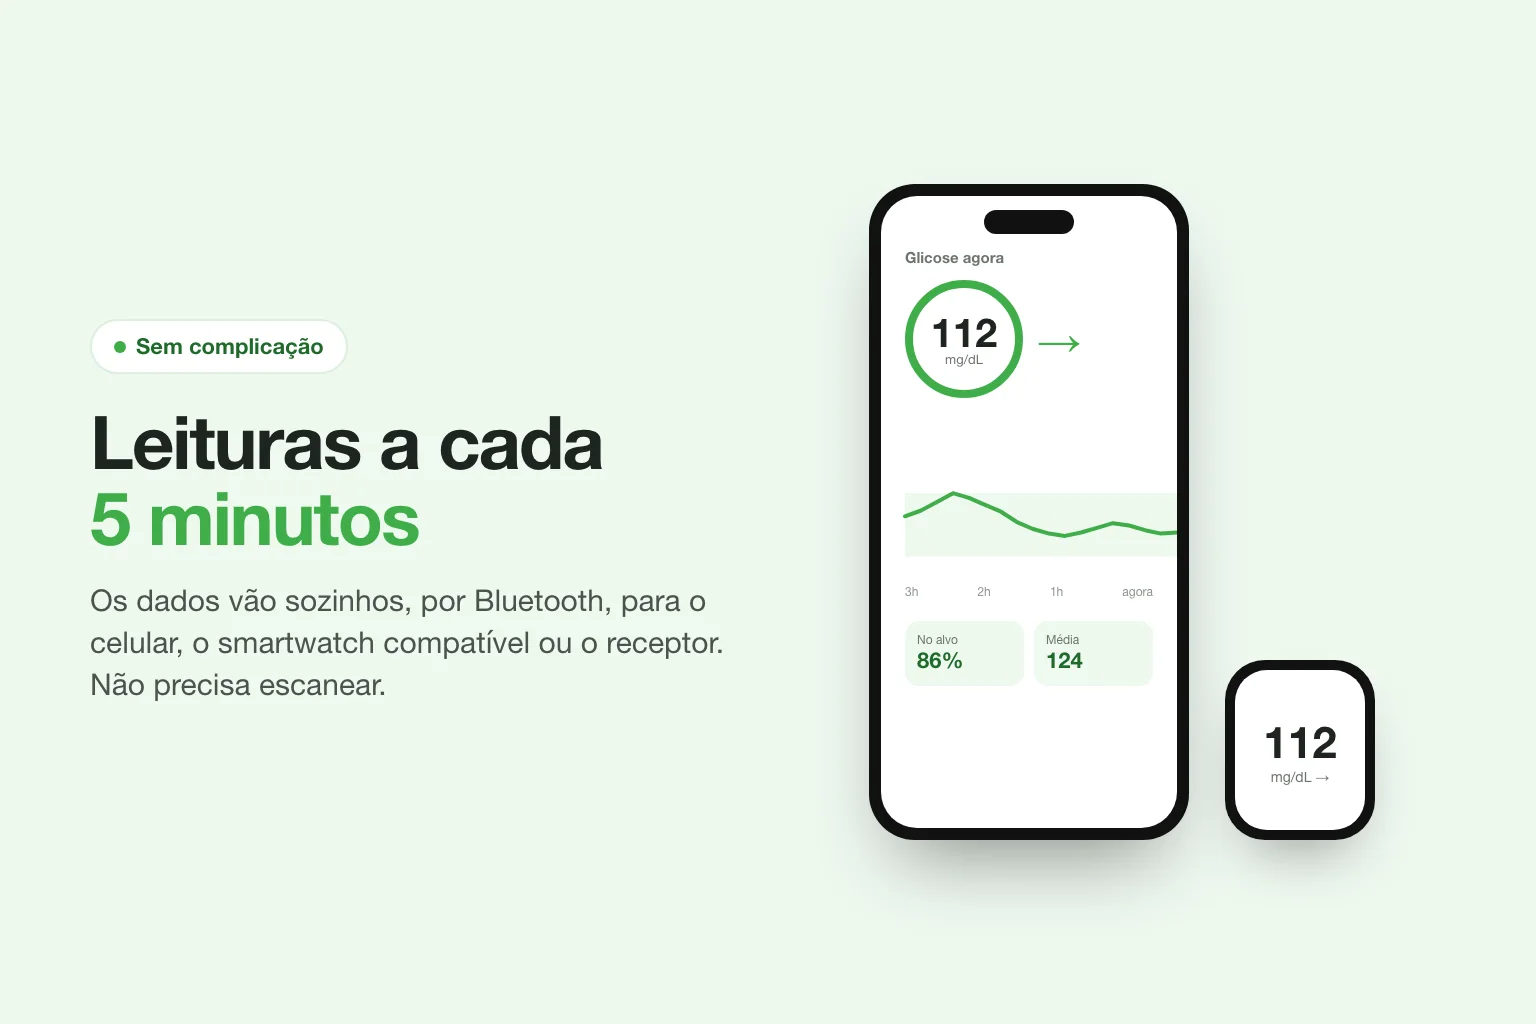
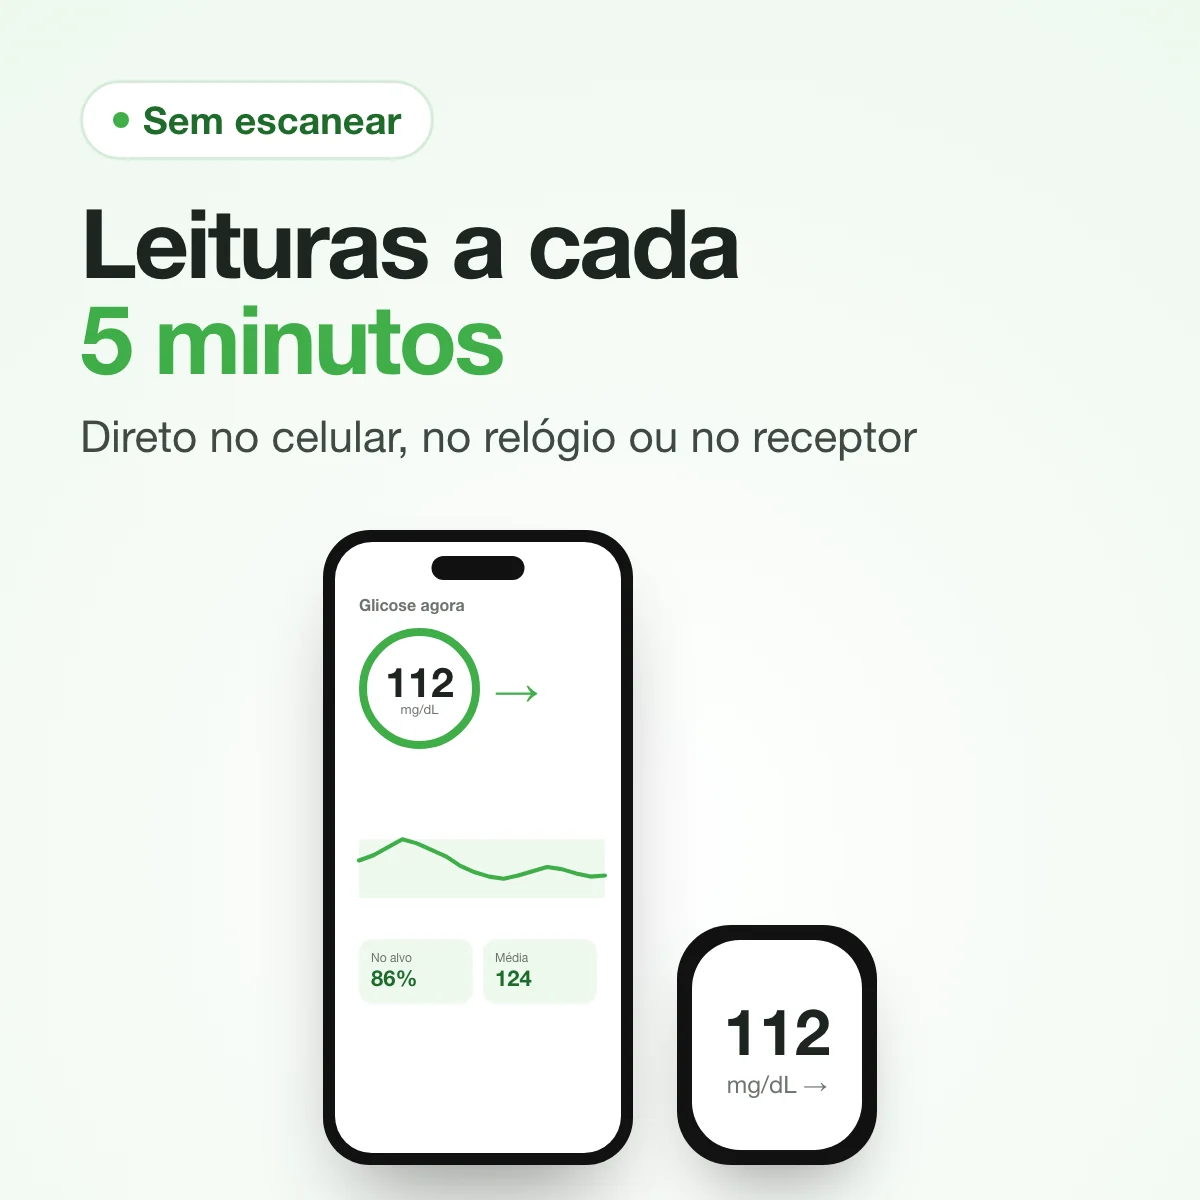
Galeria do produto quadrada e legível no celular; caixa mais nítida
- Fotos dos planos: caixas grandes, selo 2x/4x/6x e uma linha de texto
- Recursos, app, Bluetooth e água refeitos em 1200x1200 com texto maior
- Gerador das fotos em scripts/store-images/build.py
- Página Sobre usa o banner próprio (sem cortar a arte)

diff --git a/src/routes/sobre.tsx b/src/routes/sobre.tsx
@@ -42,10 +42,10 @@ function Page() {
       <section className="border-t border-[rgba(13,13,13,0.1)]">
         <div className="container-edge py-16">
           <StoreImage
-            srcMobile={homeImages.lifestyleRunning.mobile}
-            srcDesktop={homeImages.lifestyleRunning.desktop}
-            alt="Pessoa usando o Dexcom G7 no dia a dia"
-            variant="section-banner"
+            srcMobile={homeImages.bannerWide.mobile}
+            srcDesktop={homeImages.bannerWide.desktop}
+            alt="Dexcom G7 — glicose em tempo real no celular"
+            variant="banner"
             bg={brand.colors.surfaceTint}
             loading="lazy"
           />

diff --git a/src/components/site/StoreImage.tsx b/src/components/site/StoreImage.tsx
@@ -29,7 +29,8 @@ const variantStyles: Record<
     radius: "",
   },
   "product-hero": {
-    frame: "aspect-[3/2] w-full",
+    /* Fotos da galeria são quadradas (1200×1200) — legíveis no celular */
+    frame: "aspect-square w-full",
     padding: "p-0",
     contain: true,
     radius: "rounded-2xl",
@@ -49,7 +50,7 @@ const variantStyles: Record<
     radius: "",
   },
   "section-content": {
-    frame: "aspect-video w-full md:aspect-[3/2]",
+    frame: "aspect-square w-full",
     padding: "p-0",
     radius: "rounded-2xl",
   },

diff --git a/scripts/store-images/build.py b/scripts/store-images/build.py
@@ -1,0 +1,187 @@
+"""Gera as fotos da galeria do produto (quadradas, 1200x1200) a partir de HTML, no Chrome headless.
+
+Uso: python3 scripts/store-images/build.py [nome.webp ...]
+Saída: src/assets/<nome>.webp. A foto da caixa vem de scripts/store-images/box-hd.png.
+"""
+import os
+import subprocess
+import sys
+import tempfile
+
+from PIL import Image
+
+HERE = os.path.dirname(os.path.abspath(__file__))
+ROOT = os.path.abspath(os.path.join(HERE, "..", ".."))
+ASSETS = os.path.join(ROOT, "src", "assets")
+CHROME = "/Applications/Google Chrome.app/Contents/MacOS/Google Chrome"
+BOX = "file://" + os.path.join(HERE, "box-hd.png")
+
+G = "#3FAE49"
+GD = "#2E8B3A"
+GDEEP = "#1F6B2B"
+INK = "#1d2420"
+TINT = "#EEF8EF"
+S = 1200
+
+BASE = f"""
+*{{box-sizing:border-box;margin:0;padding:0}}
+html,body{{width:{S}px;height:{S}px;overflow:hidden}}
+body{{position:relative;font-family:-apple-system,"Helvetica Neue",Helvetica,Arial,sans-serif;color:{INK};-webkit-font-smoothing:antialiased}}
+.g{{color:{G}}}
+.chip{{display:inline-flex;align-items:center;gap:14px;background:#fff;border:3px solid #d6ecd8;border-radius:999px;padding:14px 30px;font-weight:800;font-size:38px;color:{GDEEP}}}
+.dot{{width:16px;height:16px;border-radius:50%;background:{G}}}
+.title{{font-size:96px;font-weight:900;line-height:1;letter-spacing:-3px}}
+.sub{{font-size:44px;line-height:1.25;color:#3f4943;margin-top:22px}}
+.icon{{width:96px;height:96px;border-radius:26px;background:{TINT};display:flex;align-items:center;justify-content:center}}
+.icon svg{{width:54px;height:54px;stroke:{GD};fill:none;stroke-width:2.2;stroke-linecap:round;stroke-linejoin:round}}
+.bg{{position:absolute;inset:0;background:radial-gradient(circle at 50% 70%,#ffffff 0,#f6fbf6 45%,{TINT} 100%)}}
+"""
+
+ICONS = {
+    "cal": '<svg viewBox="0 0 24 24"><rect x="3" y="4" width="18" height="17" rx="3"/><path d="M8 2v4M16 2v4M3 10h18"/><path d="M9 15l2 2 4-4"/></svg>',
+    "bell": '<svg viewBox="0 0 24 24"><path d="M18 16H6l1.5-2V10a4.5 4.5 0 019 0v4z"/><path d="M10 19a2 2 0 004 0"/></svg>',
+    "drop": '<svg viewBox="0 0 24 24"><path d="M12 3s6 6.5 6 11a6 6 0 01-12 0c0-4.5 6-11 6-11z"/></svg>',
+    "target": '<svg viewBox="0 0 24 24"><circle cx="12" cy="12" r="9"/><circle cx="12" cy="12" r="5"/><circle cx="12" cy="12" r="1.5"/></svg>',
+    "share": '<svg viewBox="0 0 24 24"><circle cx="18" cy="5" r="3"/><circle cx="6" cy="12" r="3"/><circle cx="18" cy="19" r="3"/><path d="M8.6 13.5l6.8 4M15.4 6.5l-6.8 4"/></svg>',
+    "bt": '<svg viewBox="0 0 24 24"><path d="M7 7l10 10-5 4V3l5 4L7 17"/></svg>',
+    "nofinger": '<svg viewBox="0 0 24 24"><path d="M9 11V5a2 2 0 014 0v6"/><path d="M13 9a2 2 0 014 0v4a6 6 0 01-6 6h-1a5 5 0 01-4-2l-2-3"/><path d="M3 3l18 18"/></svg>',
+}
+
+
+def page(body, bg="#fff"):
+    return f'<!doctype html><html><head><meta charset="utf-8"><style>{BASE}body{{background:{bg}}}</style></head><body>{body}</body></html>'
+
+
+def phone(width, value="112"):
+    pts = [140, 150, 165, 180, 172, 160, 148, 130, 118, 110, 106, 112, 120, 128, 124, 116, 110, 112]
+    gw, gh = width - 64, int(width * 0.45)
+    lo, hi = 40, 300
+    y = lambda v: gh - (v - lo) / (hi - lo) * gh
+    step = gw / (len(pts) - 1)
+    d = f"M0 {y(pts[0]):.1f} " + " ".join(f"L{i * step:.1f} {y(v):.1f}" for i, v in enumerate(pts))
+    k = width / 300
+    return f"""
+<div style="width:{width}px;height:{int(width * 2.05)}px;border-radius:{int(46 * k)}px;background:#111;padding:{int(12 * k)}px;box-shadow:0 50px 90px -35px rgba(0,0,0,.45)">
+ <div style="width:100%;height:100%;border-radius:{int(36 * k)}px;background:#fff;padding:{int(52 * k)}px {int(24 * k)}px;position:relative;overflow:hidden">
+  <div style="position:absolute;top:{int(14 * k)}px;left:50%;transform:translateX(-50%);width:{int(90 * k)}px;height:{int(24 * k)}px;border-radius:99px;background:#111"></div>
+  <div style="font-size:{int(16 * k)}px;font-weight:600;color:#6b746e">Glicose agora</div>
+  <div style="display:flex;align-items:center;gap:{int(14 * k)}px;margin-top:{int(14 * k)}px">
+    <div style="width:{int(118 * k)}px;height:{int(118 * k)}px;border-radius:50%;border:{int(8 * k)}px solid {G};display:flex;flex-direction:column;align-items:center;justify-content:center">
+      <div style="font-size:{int(40 * k)}px;font-weight:800;line-height:1">{value}</div><div style="font-size:{int(13 * k)}px;color:#6b746e">mg/dL</div>
+    </div>
+    <div style="font-size:{int(44 * k)}px;color:{G};font-weight:800">→</div>
+  </div>
+  <svg width="{gw}" height="{gh}" style="margin-top:{int(26 * k)}px;overflow:visible">
+    <rect x="0" y="{y(180):.1f}" width="{gw}" height="{y(70) - y(180):.1f}" fill="{TINT}"/>
+    <path d="{d}" fill="none" stroke="{G}" stroke-width="{4 * k:.1f}" stroke-linecap="round" stroke-linejoin="round"/>
+  </svg>
+  <div style="margin-top:{int(22 * k)}px;display:grid;grid-template-columns:1fr 1fr;gap:{int(10 * k)}px">
+    <div style="background:{TINT};border-radius:{int(14 * k)}px;padding:{int(12 * k)}px"><div style="font-size:{int(12 * k)}px;color:#6b746e">No alvo</div><div style="font-size:{int(22 * k)}px;font-weight:800;color:{GDEEP}">86%</div></div>
+    <div style="background:{TINT};border-radius:{int(14 * k)}px;padding:{int(12 * k)}px"><div style="font-size:{int(12 * k)}px;color:#6b746e">Média</div><div style="font-size:{int(22 * k)}px;font-weight:800;color:{GDEEP}">124</div></div>
+  </div>
+ </div>
+</div>"""
+
+
+def header(eyebrow, title_html, sub=None):
+    sub_html = f'<div class="sub">{sub}</div>' if sub else ""
+    return f"""<div style="position:absolute;left:80px;top:80px;right:80px;z-index:20">
+  <div class="chip"><span class="dot"></span>{eyebrow}</div>
+  <div class="title" style="margin-top:34px">{title_html}</div>{sub_html}
+</div>"""
+
+
+# ---------- Fotos dos planos ----------
+LAYOUTS = {
+    # n: (largura da caixa, [(left, top)], posição do conjunto)
+    2: (600, [(40, 0), (340, 170)]),
+    4: (470, [(20, 0), (440, 0), (130, 230), (560, 230)]),
+    6: (350, [(0, 20), (310, 20), (620, 20), (110, 230), (420, 230), (730, 230)]),
+}
+
+
+def plan(n, months, eyebrow):
+    bw, pos = LAYOUTS[n]
+    boxes = "".join(
+        f'<img src="{BOX}" style="position:absolute;left:{x}px;top:{y}px;width:{bw}px;z-index:{i}">'
+        for i, (x, y) in enumerate(pos)
+    )
+    mes = "mês" if months == 1 else "meses"
+    return page(f"""
+<div class="bg"></div>
+{header(eyebrow, f'{months} {mes}<br><span class="g">{n} sensores</span>')}
+<div style="position:absolute;left:{80 if n == 6 else 110}px;bottom:70px;width:1040px;height:{760 if n == 2 else 700}px">{boxes}</div>
+<div style="position:absolute;right:80px;top:80px;z-index:30;width:230px;height:230px;border-radius:50%;background:{G};color:#fff;display:flex;flex-direction:column;align-items:center;justify-content:center;box-shadow:0 26px 50px -20px rgba(46,139,58,.8)">
+  <div style="font-size:104px;font-weight:900;line-height:.95">{n}x</div><div style="font-size:32px;font-weight:800">sensores</div>
+</div>""")
+
+
+IMAGES = {
+    "g7-plan-30": plan(2, 1, "Plano mensal"),
+    "g7-plan-60": plan(4, 2, "Mais vendido"),
+    "g7-plan-90": plan(6, 3, "Maior economia"),
+}
+
+# ---------- Recursos ----------
+FEATS = [("cal", "15 dias", "+ 12h de tolerância"), ("nofinger", "Sem picadas", "sem calibração"),
+         ("bt", "Sem escanear", "envio automático"), ("bell", "Alertas", "alta e baixa"),
+         ("drop", "À prova d'água", "até 2,4 m"), ("share", "Compartilhe", "até 10 pessoas")]
+cards = "".join(
+    f'''<div style="background:#fff;border:3px solid #e1f0e2;border-radius:30px;padding:26px 26px;display:flex;align-items:center;gap:22px">
+<div class="icon" style="flex:0 0 96px">{ICONS[i]}</div>
+<div><div style="font-size:42px;font-weight:900;letter-spacing:-1px;line-height:1.05">{t}</div><div style="font-size:32px;color:#4f5953;margin-top:4px">{s}</div></div></div>'''
+    for i, t, s in FEATS)
+IMAGES["g7-prod-features"] = page(f"""
+{header("Por que o Dexcom G7", 'Glicose no celular,<br><span class="g">sem picadas</span>')}
+<div style="position:absolute;left:80px;right:80px;bottom:80px;display:grid;grid-template-columns:repeat(2,1fr);gap:26px">{cards}</div>
+""", bg=TINT)
+
+# ---------- Relatórios ----------
+IMAGES["g7-prod-reports"] = page(f"""
+<div class="bg"></div>
+{header("App e relatórios", 'Tendências e<br><span class="g">tempo no alvo</span>', "App Dexcom G7 e relatórios do Clarity")}
+<div style="position:absolute;left:50%;transform:translateX(-50%);top:530px">{phone(310)}</div>
+""")
+
+# ---------- Bluetooth ----------
+watch = f"""<div style="width:200px;height:240px;border-radius:54px;background:#111;padding:15px;box-shadow:0 40px 70px -30px rgba(0,0,0,.4)">
+<div style="width:100%;height:100%;border-radius:48px;background:#fff;display:flex;flex-direction:column;align-items:center;justify-content:center">
+<div style="font-size:64px;font-weight:900">112</div><div style="font-size:24px;color:#6b746e">mg/dL →</div></div></div>"""
+IMAGES["g7-prod-bluetooth"] = page(f"""
+<div class="bg"></div>
+{header("Sem escanear", 'Leituras a cada<br><span class="g">5 minutos</span>', "Direto no celular, no relógio ou no receptor")}
+<div style="position:absolute;left:50%;transform:translateX(-50%);top:530px;display:flex;align-items:flex-end;gap:44px">{phone(310)}{watch}</div>
+""")
+
+# ---------- Água ----------
+IMAGES["g7-prod-water"] = page(f"""
+<div style="position:absolute;inset:0;background:linear-gradient(170deg,#eef9fb 0%,#d3eff4 55%,#a9dfe8 100%)"></div>
+<svg style="position:absolute;left:0;bottom:0" width="{S}" height="420" viewBox="0 0 {S} 420"><path d="M0 140 C 250 60, 420 220, 650 140 S 1000 70, {S} 130 L {S} 420 L 0 420 Z" fill="#fff" opacity=".45"/><path d="M0 230 C 260 160, 440 300, 680 230 S 1020 170, {S} 220 L {S} 420 L 0 420 Z" fill="#fff" opacity=".6"/></svg>
+{header("Resistente à água", 'À prova d&#39;água<br><span class="g">até 2,4 m</span>', "Por até 24 horas: banho, piscina e treino")}
+<div style="position:absolute;left:50%;transform:translateX(-50%);top:640px;width:440px;height:440px;border-radius:50%;background:#fff;display:flex;align-items:center;justify-content:center;box-shadow:0 50px 90px -35px rgba(0,80,90,.4)">
+  <div style="width:240px;height:240px;border-radius:50%;background:radial-gradient(circle at 40% 35%,#fff,#eef0ee 60%,#d9ddda);box-shadow:inset 0 -10px 24px rgba(0,0,0,.08),0 0 0 30px rgba(255,255,255,.75),0 0 0 33px #dfe7e2;display:flex;align-items:center;justify-content:center">
+    <div style="width:20px;height:20px;border-radius:50%;background:#9aa39d"></div>
+  </div>
+</div>
+""")
+
+
+def render(name, html, tmp):
+    hp = os.path.join(tmp, name + ".html")
+    png = os.path.join(tmp, name + ".png")
+    with open(hp, "w") as f:
+        f.write(html)
+    subprocess.run([CHROME, "--headless=new", "--disable-gpu", "--hide-scrollbars", f"--window-size={S},{S}",
+                    "--force-device-scale-factor=1", "--allow-file-access-from-files", f"--screenshot={png}",
+                    "file://" + hp], check=True, capture_output=True)
+    out = os.path.join(ASSETS, name + ".webp")
+    Image.open(png).convert("RGB").save(out, quality=86, method=6)
+    return out
+
+
+if __name__ == "__main__":
+    only = {a.removesuffix(".webp") for a in sys.argv[1:]}
+    with tempfile.TemporaryDirectory() as tmp:
+        for name, html in IMAGES.items():
+            if not only or name in only:
+                print(render(name, html, tmp))
